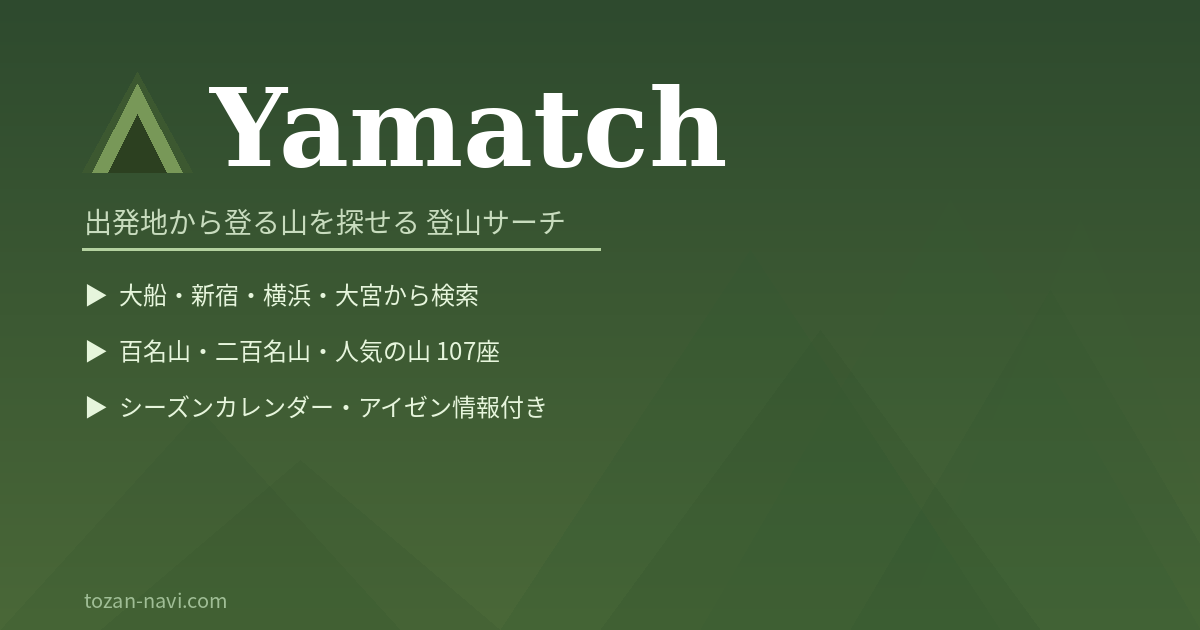
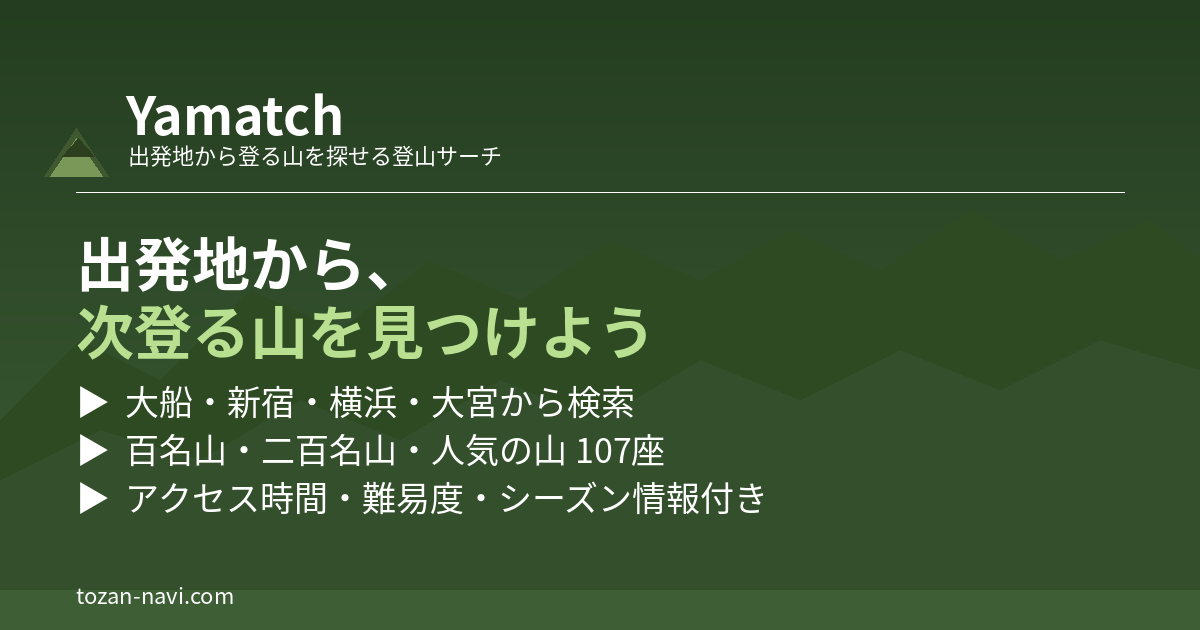
改善

diff --git a/index.html b/index.html
@@ -3951,51 +3951,38 @@ function App() {
     return (
       <div style={{ background: "#f0ede8", minHeight: "100vh", fontFamily: "sans-serif" }}>
         {showBoard && <FeedbackBoard initMountain={boardInitMountain} onClose={() => { setShowBoard(false); setBoardInitMountain(""); }} />}
-        <header style={{ background: "linear-gradient(135deg, #4a6038 0%, #607848 100%)", position:"relative", overflow:"hidden" }} className="p-6">
-          {/* 背景SVG山 */}
-          <svg style={{position:"absolute",bottom:0,left:0,width:"100%",height:"100%",zIndex:0,pointerEvents:"none"}} viewBox="0 0 900 120" preserveAspectRatio="xMidYMax slice" xmlns="http://www.w3.org/2000/svg">
-            <defs>
-              <linearGradient id="hm1" x1="0" y1="0" x2="0" y2="1"><stop offset="0%" stopColor="#3a6030"/><stop offset="100%" stopColor="#4a7040"/></linearGradient>
-              <linearGradient id="hm2" x1="0" y1="0" x2="0" y2="1"><stop offset="0%" stopColor="#4a7040"/><stop offset="100%" stopColor="#5a8050"/></linearGradient>
-              <linearGradient id="hgr" x1="0" y1="0" x2="0" y2="1"><stop offset="0%" stopColor="#5a8848"/><stop offset="100%" stopColor="#6a9858"/></linearGradient>
-            </defs>
-            {/* 奥の山（薄く） */}
-            <path d="M-20 120 L-20 65 L30 42 L60 58 L95 28 L122 52 L155 18 L178 45 L200 10 L222 42 L248 22 L275 50 L308 32 L335 55 L365 38 L395 60 L425 28 L452 55 L480 35 L508 58 L535 40 L562 62 L592 30 L618 58 L648 42 L675 65 L705 48 L732 68 L762 52 L792 72 L820 55 L852 75 L882 60 L920 80 L920 120 Z" fill="url(#hm1)" opacity="0.45"/>
-            {/* 手前の山（メイン） */}
-            <path d="M-20 120 L-20 88 L25 72 L62 60 L92 68 L118 55 L145 44 L168 55 L188 42 L210 32 L232 44 L255 35 L282 25 L308 38 L335 28 L362 42 L390 32 L420 22 L448 35 L475 28 L502 40 L528 32 L555 20 L582 35 L608 28 L635 42 L662 35 L690 48 L718 40 L748 55 L778 48 L808 62 L840 55 L870 68 L900 62 L920 72 L920 120 Z" fill="url(#hm2)"/>
-            {/* 地面 */}
-            <rect x="0" y="108" width="900" height="12" fill="url(#hgr)"/>
-            {/* 草・花 */}
-            <g strokeLinecap="round">
-              <line x1="18" y1="114" x2="16" y2="107" stroke="#5a9838" strokeWidth="1.2"/>
-              <line x1="24" y1="114" x2="24" y2="105" stroke="#4a8828" strokeWidth="1.2"/>
-              <line x1="30" y1="114" x2="32" y2="107" stroke="#5a9838" strokeWidth="1.2"/>
-              <circle cx="21" cy="106" r="2" fill="white" opacity="0.7"/>
-              <circle cx="29" cy="104" r="2" fill="#f0e050" opacity="0.65"/>
-            </g>
-            <g strokeLinecap="round">
-              <line x1="862" y1="114" x2="860" y2="107" stroke="#5a9838" strokeWidth="1.2"/>
-              <line x1="868" y1="114" x2="868" y2="105" stroke="#4a8828" strokeWidth="1.2"/>
-              <line x1="874" y1="114" x2="876" y2="107" stroke="#5a9838" strokeWidth="1.2"/>
-              <circle cx="865" cy="106" r="2" fill="#f0a0b0" opacity="0.7"/>
-              <circle cx="873" cy="104" r="2" fill="white" opacity="0.65"/>
-            </g>
+        <header style={{background:"linear-gradient(155deg,#243d20 0%,#344f2c 55%,#3e5e36 100%)",position:"relative",overflow:"hidden"}} className="px-4 py-4">
+          {/* 背景山シルエット */}
+          <svg style={{position:"absolute",bottom:0,left:0,right:0,height:"50px",opacity:0.1,pointerEvents:"none",width:"100%"}} viewBox="0 0 390 50" fill="white" preserveAspectRatio="xMidYMax slice">
+            <polygon points="0,50 0,30 50,14 90,24 130,6 170,20 210,3 250,18 290,8 330,22 390,10 390,50"/>
           </svg>
-          <div className="max-w-2xl mx-auto flex items-center gap-3" style={{position:"relative",zIndex:1}}>
-            <svg width="32" height="32" viewBox="0 0 36 36" style={{flexShrink:0}}><polygon points="18,4 34,30 2,30" fill="#405830"/><polygon points="18,10 30,30 6,30" fill="#789858"/><polygon points="10,30 17,17 24,30" fill="#2c4020"/></svg>
-            <div style={{ flex: 1 }}>
-              <h1 className="text-xl font-bold text-white" style={{fontFamily:"Georgia,serif",fontSize:"22px",letterSpacing:"0.02em"}}>Yamatch</h1>
-              <p className="text-stone-300 text-xs">出発地から登る山を探せる登山サーチ</p>
+          <div className="max-w-3xl mx-auto">
+            {/* ロゴ行 */}
+            <div style={{display:"flex",alignItems:"center",gap:"9px",marginBottom:"16px",position:"relative",zIndex:1}}>
+              <svg width="24" height="24" viewBox="0 0 36 36" style={{flexShrink:0}}><polygon points="18,4 34,30 2,30" fill="#405830"/><polygon points="18,10 30,30 6,30" fill="#789858"/><polygon points="10,30 17,17 24,30" fill="#2c4020"/></svg>
+              <div style={{flex:1}}>
+                <h1 style={{fontFamily:"Georgia,serif",fontSize:"21px",fontWeight:"700",color:"white",lineHeight:1,margin:0}}>Yamatch</h1>
+                <p style={{fontSize:"9px",color:"rgba(255,255,255,0.42)",margin:"2px 0 0"}}>出発地から登る山を探せる登山サーチ</p>
+              </div>
+              <a href="/about/" style={{background:"rgba(255,255,255,0.1)",border:"1px solid rgba(255,255,255,0.15)",color:"white",borderRadius:"7px",padding:"4px 9px",fontSize:"10px",textDecoration:"none",flexShrink:0}}>運営者</a>
+              <button onClick={() => setShowBoard(true)} style={{background:"rgba(255,255,255,0.1)",border:"1px solid rgba(255,255,255,0.15)",color:"white",borderRadius:"7px",padding:"4px 9px",fontSize:"10px",cursor:"pointer",flexShrink:0}}>提案</button>
             </div>
-            <a href="/about/" style={{ background: "rgba(255,255,255,0.15)", border: "1px solid rgba(255,255,255,0.3)", color: "white", borderRadius: "10px", padding: "6px 12px", fontSize: "12px", whiteSpace: "nowrap", textDecoration: "none" }}>
-              🥾 運営者について
-            </a>
-            <button
-              onClick={() => { setBoardInitMountain(""); setShowBoard(true); }}
-              style={{ background: "rgba(255,255,255,0.15)", border: "1px solid rgba(255,255,255,0.3)", color: "white", borderRadius: "10px", padding: "6px 12px", fontSize: "12px", cursor: "pointer", whiteSpace: "nowrap" }}
-            >
-              💬 改善提案はこちら
-            </button>
+            {/* キャッチコピー */}
+            <div style={{position:"relative",zIndex:1,marginBottom:"14px"}}>
+              <div style={{fontSize:"18px",fontWeight:"700",color:"white",lineHeight:1.35,letterSpacing:"-0.01em",marginBottom:"5px",whiteSpace:"nowrap"}}>出発地から、<span style={{color:"#b8e090",fontWeight:"800"}}>次登る山</span>を見つけよう</div>
+              <div style={{fontSize:"11px",color:"rgba(255,255,255,0.48)",lineHeight:1.65}}>アクセス時間・難易度・体力で絞り込める登山サーチ</div>
+            </div>
+            {/* 出発地タブ */}
+            <div style={{position:"relative",zIndex:1}}>
+              <div style={{display:"flex",background:"rgba(0,0,0,0.18)",borderRadius:"10px",padding:"3px",marginBottom:"14px"}}>
+                {["大船","新宿","横浜","大宮"].map(d => (
+                  <button key={d} onClick={() => setDeparture(d)}
+                    style={{flex:1,textAlign:"center",fontSize:"12px",color:departure===d?"#2d4a28":"rgba(255,255,255,0.42)",background:departure===d?"white":"transparent",padding:"6px 4px",borderRadius:"7px",fontWeight:departure===d?"700":"500",border:"none",cursor:"pointer",transition:"all 0.15s"}}>
+                    {d}駅
+                  </button>
+                ))}
+              </div>
+            </div>
           </div>
         </header>
         <main className="max-w-2xl mx-auto p-4">
@@ -4061,92 +4048,34 @@ function App() {
       </header>
 
       <main className="max-w-3xl mx-auto p-4">
-        {/* ① はじめての山・② 時間×体力（アコーディオン） */}
-        <div style={{display:"flex",flexDirection:"column",gap:"6px",marginBottom:"8px"}}>
 
-          {/* ① はじめての山 */}
-          <div style={{background:"white",borderRadius:"12px",border:"1px solid #ddd8d0",overflow:"hidden"}}>
-            <button
-              onClick={() => setQuickOpen(!quickOpen)}
-              style={{width:"100%",display:"flex",alignItems:"center",justifyContent:"space-between",padding:"11px 13px",background:"none",border:"none",cursor:"pointer",textAlign:"left"}}
-            >
-              <span style={{fontSize:"12px",fontWeight:"700",color:"#4a5e4a"}}>🔰 はじめての山を探す</span>
-              <span style={{fontSize:"11px",color:"#a09888",display:"inline-block",transform:quickOpen?"rotate(180deg)":"rotate(0deg)",transition:"transform 0.2s"}}>▼</span>
-            </button>
-            {quickOpen && <div style={{padding:"0 13px 11px"}}>
-              <div style={{display:"grid",gridTemplateColumns:"1fr 1fr",gap:"6px"}}>
-                {[
-                  {icon:"🚶",label:"2時間で登れる山",sub:"大船から近場",href:"/search/ofuna/coeff-under15/"},
-                  {icon:"🚃",label:"電車で行ける山",sub:"車なしOK",href:"/search/train-daytrip/"},
-                  {icon:"🍂",label:"初心者向けの山",sub:"コース定数15以下",href:"/search/shinjuku-beginner/"},
-                  {icon:"📸",label:"絶景・展望の山",sub:"富士山が見える",href:"/search/shinjuku-daytrip/"},
-                ].map(item => (
-                  <a key={item.label} href={item.href} style={{background:"#f5f3ef",border:"1px solid #eae6e0",borderRadius:"9px",padding:"9px 10px",textDecoration:"none",color:"inherit",display:"flex",flexDirection:"column",gap:"3px"}}>
-                    <span style={{fontSize:"16px"}}>{item.icon}</span>
-                    <span style={{fontSize:"12px",fontWeight:"700",color:"#3a3530",lineHeight:1.3}}>{item.label}</span>
-                    <span style={{fontSize:"10px",color:"#a09888",lineHeight:1.3}}>{item.sub}</span>
-                  </a>
-                ))}
-              </div>
-            </div>}
+        {/* 診断＋こんな人におすすめ 統合バナー */}
+        <div style={{background:"linear-gradient(155deg,#1e3010,#2d4a22)",borderRadius:"14px",padding:"14px 15px",marginBottom:"8px",position:"relative",overflow:"hidden"}}>
+          <svg style={{position:"absolute",right:"-8px",bottom:"-8px",width:"90px",height:"70px",opacity:0.1,pointerEvents:"none"}} viewBox="0 0 90 70" fill="white"><polygon points="0,70 45,12 90,70"/><polygon points="18,70 55,28 90,70" opacity=".5"/></svg>
+          <div style={{position:"relative",zIndex:1,marginBottom:"12px"}}>
+            <div style={{fontSize:"9px",fontWeight:"600",letterSpacing:"0.1em",color:"rgba(255,255,255,0.4)",marginBottom:"4px"}}>登山タイプ診断</div>
+            <div style={{fontSize:"15px",fontWeight:"700",color:"white",lineHeight:1.3,marginBottom:"3px"}}>16タイプ診断・あなたは<br/>どのタイプ？</div>
+            <div style={{fontSize:"10px",color:"rgba(255,255,255,0.45)"}}>9問・約1分・完全無料・おすすめの山も提案</div>
           </div>
-
-          {/* ② 時間×体力マトリクス */}
-          <div style={{background:"white",borderRadius:"12px",border:"1px solid #ddd8d0",overflow:"hidden"}}>
-            <button
-              onClick={() => setMatrixOpen(!matrixOpen)}
-              style={{width:"100%",display:"flex",alignItems:"center",justifyContent:"space-between",padding:"11px 13px",background:"none",border:"none",cursor:"pointer",textAlign:"left"}}
-            >
-              <span style={{fontSize:"12px",fontWeight:"700",color:"#4a5e4a"}}>⏱ 所要時間と体力で選ぶ</span>
-              <span style={{fontSize:"11px",color:"#a09888",display:"inline-block",transform:matrixOpen?"rotate(180deg)":"rotate(0deg)",transition:"transform 0.2s"}}>▼</span>
-            </button>
-            {matrixOpen && <div style={{padding:"0 13px 11px"}}>
-              {/* 列ヘッダー */}
-              <div style={{display:"flex",gap:"5px",marginLeft:"52px",marginBottom:"4px"}}>
-                {["〜2h","2〜4h","4h〜"].map(t=>(
-                  <div key={t} style={{flex:1,textAlign:"center",fontSize:"9px",color:"#a09888"}}>{t}</div>
-                ))}
-              </div>
-              {[
-                {label:"楽に登りたい", items:[
-                  {name:"高尾山・筑波山",href:"/search/ofuna/coeff-under15/",hi:true},
-                  {name:"陣馬山・大山",href:"/search/ofuna/coeff-under20/",hi:false},
-                  {name:"金時山・棒ノ折",href:"/search/ofuna/",hi:false},
-                ]},
-                {label:"少し本格的に", items:[
-                  {name:"御岳山・日和田山",href:"/search/ofuna/coeff-under15/",hi:false},
-                  {name:"塔ノ岳・大岳山",href:"/search/ofuna/coeff-under25/",hi:true},
-                  {name:"丹沢山・雲取山",href:"/search/ofuna/coeff-under40/",hi:false},
-                ]},
-              ].map(row => (
-                <div key={row.label} style={{display:"flex",gap:"5px",marginBottom:"5px",alignItems:"center"}}>
-                  <div style={{fontSize:"10px",color:"#a09888",width:"48px",flexShrink:0,lineHeight:1.3}}>{row.label}</div>
-                  <div style={{display:"flex",gap:"5px",flex:1}}>
-                    {row.items.map(item => (
-                      <a key={item.name} href={item.href}
-                        style={{flex:1,background:item.hi?"#eef4e8":"#f5f3ef",border:item.hi?"1px solid #c0d8a8":"1px solid #eae6e0",borderRadius:"8px",padding:"7px 4px",textAlign:"center",fontSize:"10px",fontWeight:"600",color:item.hi?"#3a6030":"#4a5e4a",lineHeight:1.4,textDecoration:"none"}}
-                      >{item.name}</a>
-                    ))}
-                  </div>
+          <div style={{borderTop:"1px solid rgba(255,255,255,0.1)",marginBottom:"10px",position:"relative",zIndex:1}}></div>
+          <div style={{position:"relative",zIndex:1,marginBottom:"12px"}}>
+            <div style={{fontSize:"10px",fontWeight:"600",color:"rgba(255,255,255,0.45)",marginBottom:"7px",letterSpacing:"0.06em"}}>こんな人におすすめ</div>
+            <div style={{display:"flex",flexDirection:"column",gap:"6px"}}>
+              {[["🏔","初めての登山"],["🌅","日帰りで行きたい"],["🚃","電車で行きたい"]].map(([icon,text]) => (
+                <div key={text} style={{display:"flex",alignItems:"center",gap:"8px",fontSize:"13px",color:"rgba(255,255,255,0.85)"}}>
+                  <span style={{width:"18px",height:"18px",background:"rgba(255,255,255,0.12)",borderRadius:"50%",display:"flex",alignItems:"center",justifyContent:"center",fontSize:"10px",flexShrink:0}}>{icon}</span>
+                  {text}
                 </div>
               ))}
-            </div>}
+            </div>
           </div>
+          <a href="/recommend/" style={{display:"flex",alignItems:"center",justifyContent:"center",gap:"6px",background:"#a8d860",color:"#1a3010",fontSize:"13px",fontWeight:"800",padding:"11px",borderRadius:"10px",textDecoration:"none",position:"relative",zIndex:1}}>
+            診断する →
+          </a>
         </div>
 
-        {/* 診断バナー（コンパクト） */}
-        <a href="/recommend/" style={{display:"flex",alignItems:"center",gap:"10px",textDecoration:"none",background:"linear-gradient(135deg,#1e3018,#3a5830)",borderRadius:"12px",padding:"11px 13px",marginBottom:"8px",position:"relative",overflow:"hidden"}}>
-          <svg style={{position:"absolute",bottom:0,right:0,width:"40%",height:"100%",opacity:0.1,pointerEvents:"none"}} viewBox="0 0 200 120" preserveAspectRatio="xMaxYMax slice"><polygon points="0,120 60,40 90,65 130,20 165,50 200,30 200,120" fill="white"/></svg>
-          <div style={{flex:1,position:"relative",zIndex:1}}>
-            <div style={{fontSize:"9px",fontWeight:"700",letterSpacing:"0.08em",color:"rgba(255,255,255,0.5)",marginBottom:"2px"}}>登山タイプ診断</div>
-            <div style={{fontSize:"14px",fontWeight:"800",color:"white",lineHeight:1.2,marginBottom:"1px"}}>あなたの山スタイルは？</div>
-            <div style={{fontSize:"10px",color:"rgba(255,255,255,0.6)"}}>9問・約1分・16タイプで診断</div>
-          </div>
-          <div style={{background:"rgba(255,255,255,0.18)",border:"1px solid rgba(255,255,255,0.3)",borderRadius:"20px",padding:"6px 12px",fontSize:"11px",fontWeight:"700",color:"white",whiteSpace:"nowrap",flexShrink:0,position:"relative",zIndex:1}}>診断する →</div>
-        </a>
-
         {/* 記事（横スクロールチップ） */}
-        <div style={{display:"flex",gap:"7px",overflowX:"auto",marginBottom:"10px",WebkitOverflowScrolling:"touch",paddingBottom:"2px"}}>
+        <div style={{display:"flex",gap:"7px",overflowX:"auto",marginBottom:"8px",WebkitOverflowScrolling:"touch",paddingBottom:"2px"}}>
           <a href="/articles/kanto-day-trip-100/" style={{background:"#faf8f5",border:"1px solid #ddd8d0",borderRadius:"20px",padding:"6px 12px",fontSize:"11px",fontWeight:"500",color:"#5a5248",whiteSpace:"nowrap",flexShrink:0,textDecoration:"none"}}>📖 関東発・日帰り百名山10選</a>
           <a href="/articles/train-access-mountains/" style={{background:"#faf8f5",border:"1px solid #ddd8d0",borderRadius:"20px",padding:"6px 12px",fontSize:"11px",fontWeight:"500",color:"#5a5248",whiteSpace:"nowrap",flexShrink:0,textDecoration:"none"}}>🚃 電車で行ける登山10選</a>
         </div>
@@ -4154,6 +4083,17 @@ function App() {
   
 
 
+
+        {/* 検索バー */}
+        <div style={{marginBottom:"8px"}}>
+          <input
+            type="text"
+            placeholder="🔍 山名・エリアで検索"
+            value={search}
+            onChange={e => setSearch(e.target.value)}
+            style={{width:"100%",padding:"10px 14px",borderRadius:"11px",border:"1px solid #e0dbd4",fontSize:"13px",boxSizing:"border-box",outline:"none",background:"white",color:"#3a3530"}}
+          />
+        </div>
 
         {/* フィルタートグル */}
         <div>
@@ -4315,11 +4255,17 @@ function App() {
                   const cardBorder = is100 ? "#d0dcea" : "#cfdcc0";
                   const iconColor = is100 ? "#1a4a80" : "#2a5010";
 
-                  // 体力度バッジ
+                  // 体力度バッジ＋難易度ラベル
                   const cMax = m.courseCoefficient ? m.courseCoefficient[1] : 0;
                   const courseBg    = cMax >= 25 ? "#f0e0e0" : cMax >= 16 ? "#f0ece0" : "#e8f0e4";
                   const courseColor = cMax >= 25 ? "#7a3838" : cMax >= 16 ? "#7a6030" : "#4a6840";
                   const courseLabel = m.courseCoefficientRange ? "体力度" + m.courseCoefficientRange : null;
+                  const diffLabel = cMax >= 40 ? "上級" : cMax >= 22 ? "中級" : "初級";
+                  const diffBg = cMax >= 40 ? "#f0e0e0" : cMax >= 22 ? "#f0ece0" : "#e8f0e4";
+                  const diffColor = cMax >= 40 ? "#7a3838" : cMax >= 22 ? "#7a6030" : "#4a6840";
+                  const driveMin = getDriveTime(m);
+                  const barPct = Math.min(Math.round(driveMin / 360 * 100), 100);
+                  const barColor = driveMin >= 240 ? "linear-gradient(90deg,#c05030,#e07050)" : driveMin >= 120 ? "linear-gradient(90deg,#7a8830,#9aaa50)" : "linear-gradient(90deg,#4a6038,#607848)";
 
                   // アイゼンバッジ（今月）
                   const noGear = canClimbNoGear(m, currentMonth);
@@ -4358,10 +4304,14 @@ function App() {
                       {/* エリア */}
                       <div style={{ fontSize: "10px", color: "#8a8078", position: "relative", zIndex: 1 }}>{m.area}</div>
                       {/* 標高・時間 */}
-                      <div style={{ display: "flex", gap: "5px", alignItems: "center", fontSize: "11px", color: "#6a6058", position: "relative", zIndex: 1, marginBottom: "3px" }}>
+                      <div style={{ display: "flex", gap: "5px", alignItems: "center", fontSize: "11px", color: "#6a6058", position: "relative", zIndex: 1, marginBottom: "2px" }}>
                         <span>{m.elevation.toLocaleString()}m</span>
                         <span style={{ color: "#c8c0b8" }}>·</span>
                         <span>🚗 {formatDriveTime(getDriveTime(m))}</span>
+                      </div>
+                      {/* アクセス時間バー */}
+                      <div style={{height:"3px",background:"rgba(0,0,0,0.08)",borderRadius:"2px",marginBottom:"5px",overflow:"hidden",position:"relative",zIndex:1}}>
+                        <div style={{width:barPct+"%",height:"100%",background:barColor,borderRadius:"2px"}}></div>
                       </div>
                       {/* バッジ群 */}
                       <div style={{ display: "flex", gap: "3px", flexWrap: "wrap", position: "relative", zIndex: 1 }}>
@@ -4378,11 +4328,9 @@ function App() {
                             {(m.trainAccess.includes("バス") || m.trainAccess.includes("ケーブル")) ? "🚃🚌" : "🚃"}
                           </span>
                         )}
-                        {courseLabel && (
-                          <span style={{ fontSize: "10px", padding: "2px 5px", borderRadius: "20px", fontWeight: "500", background: courseBg, color: courseColor }}>
-                            {courseLabel}
-                          </span>
-                        )}
+                        <span style={{ fontSize: "10px", padding: "2px 5px", borderRadius: "20px", fontWeight: "600", background: diffBg, color: diffColor }}>
+                          {diffLabel}
+                        </span>
                         <span style={{ fontSize: "10px", padding: "2px 5px", borderRadius: "20px", fontWeight: "500", background: cramponBg, color: cramponColor }}>
                           {cramponLabel}
                         </span>
